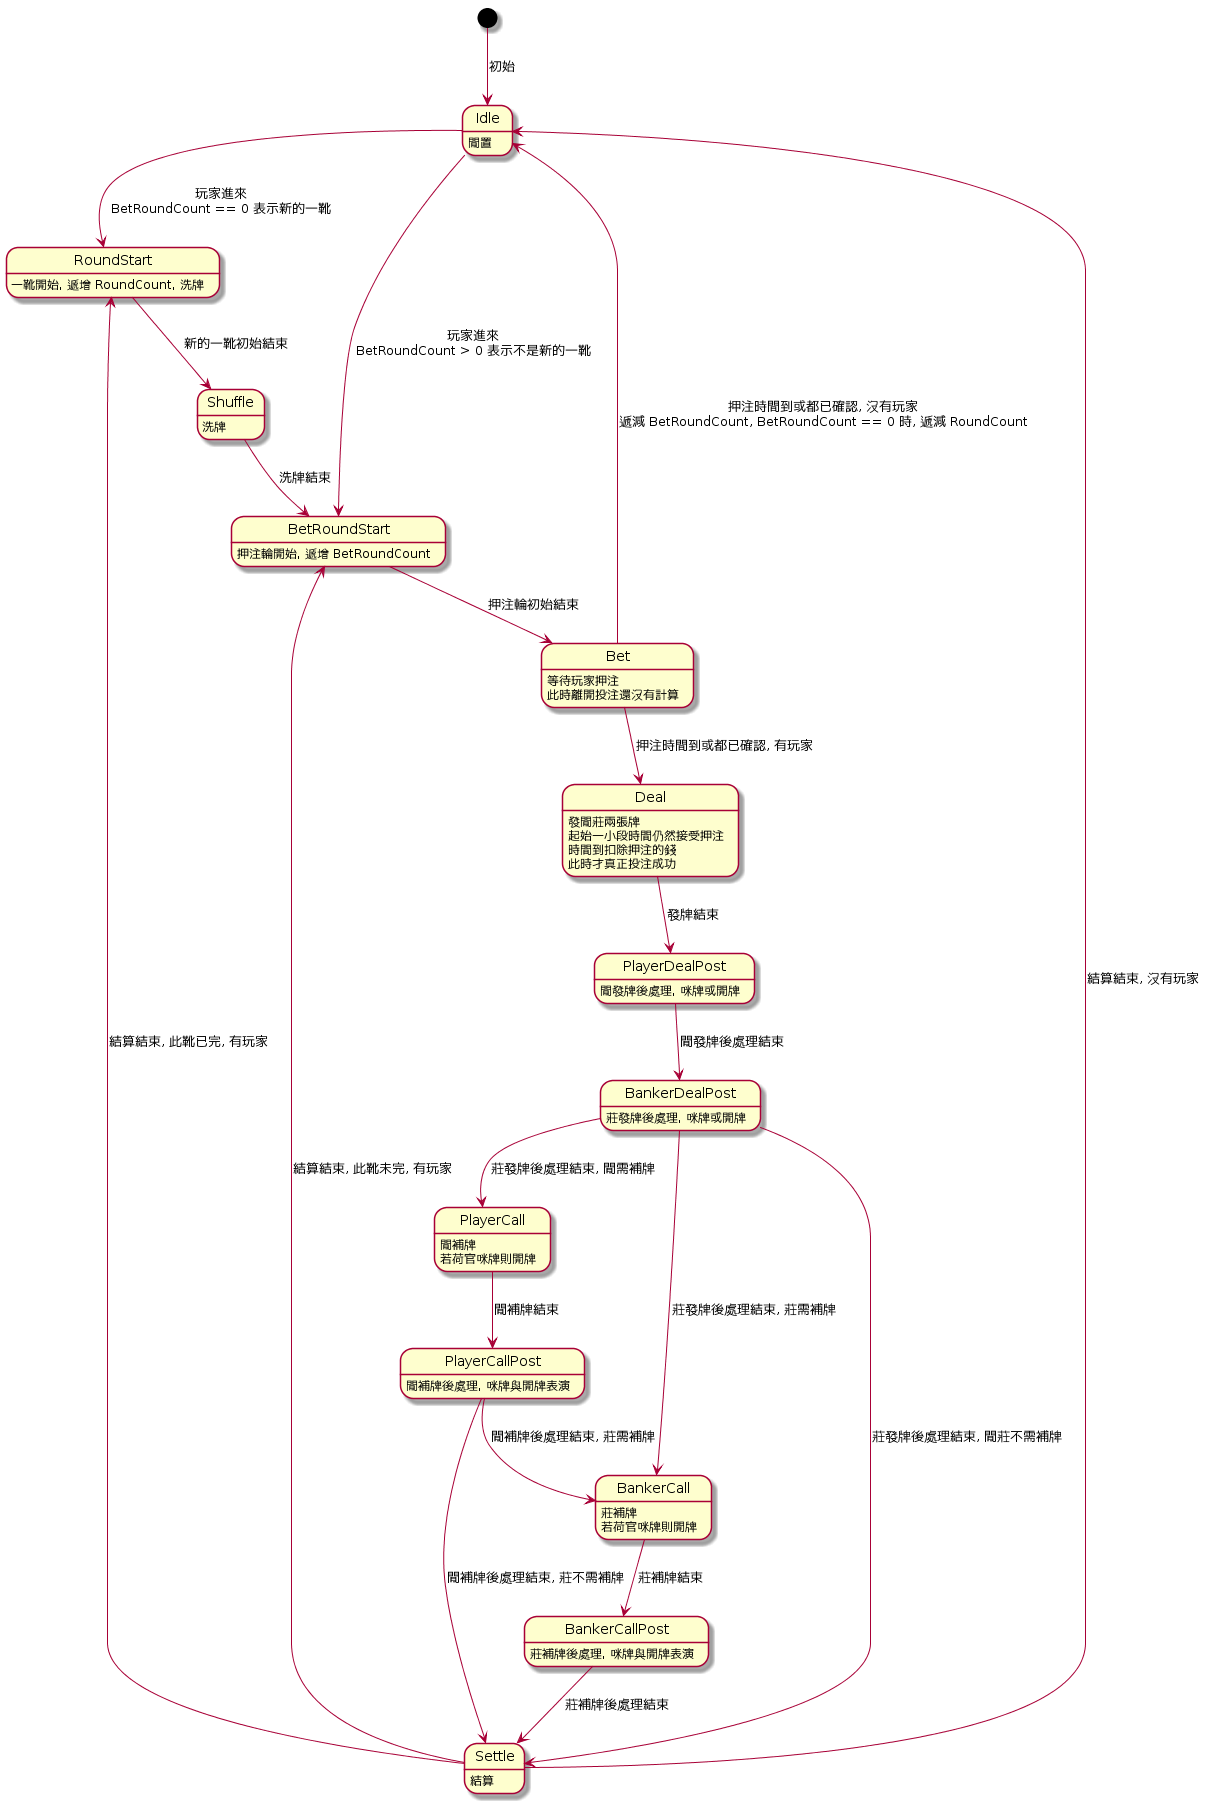
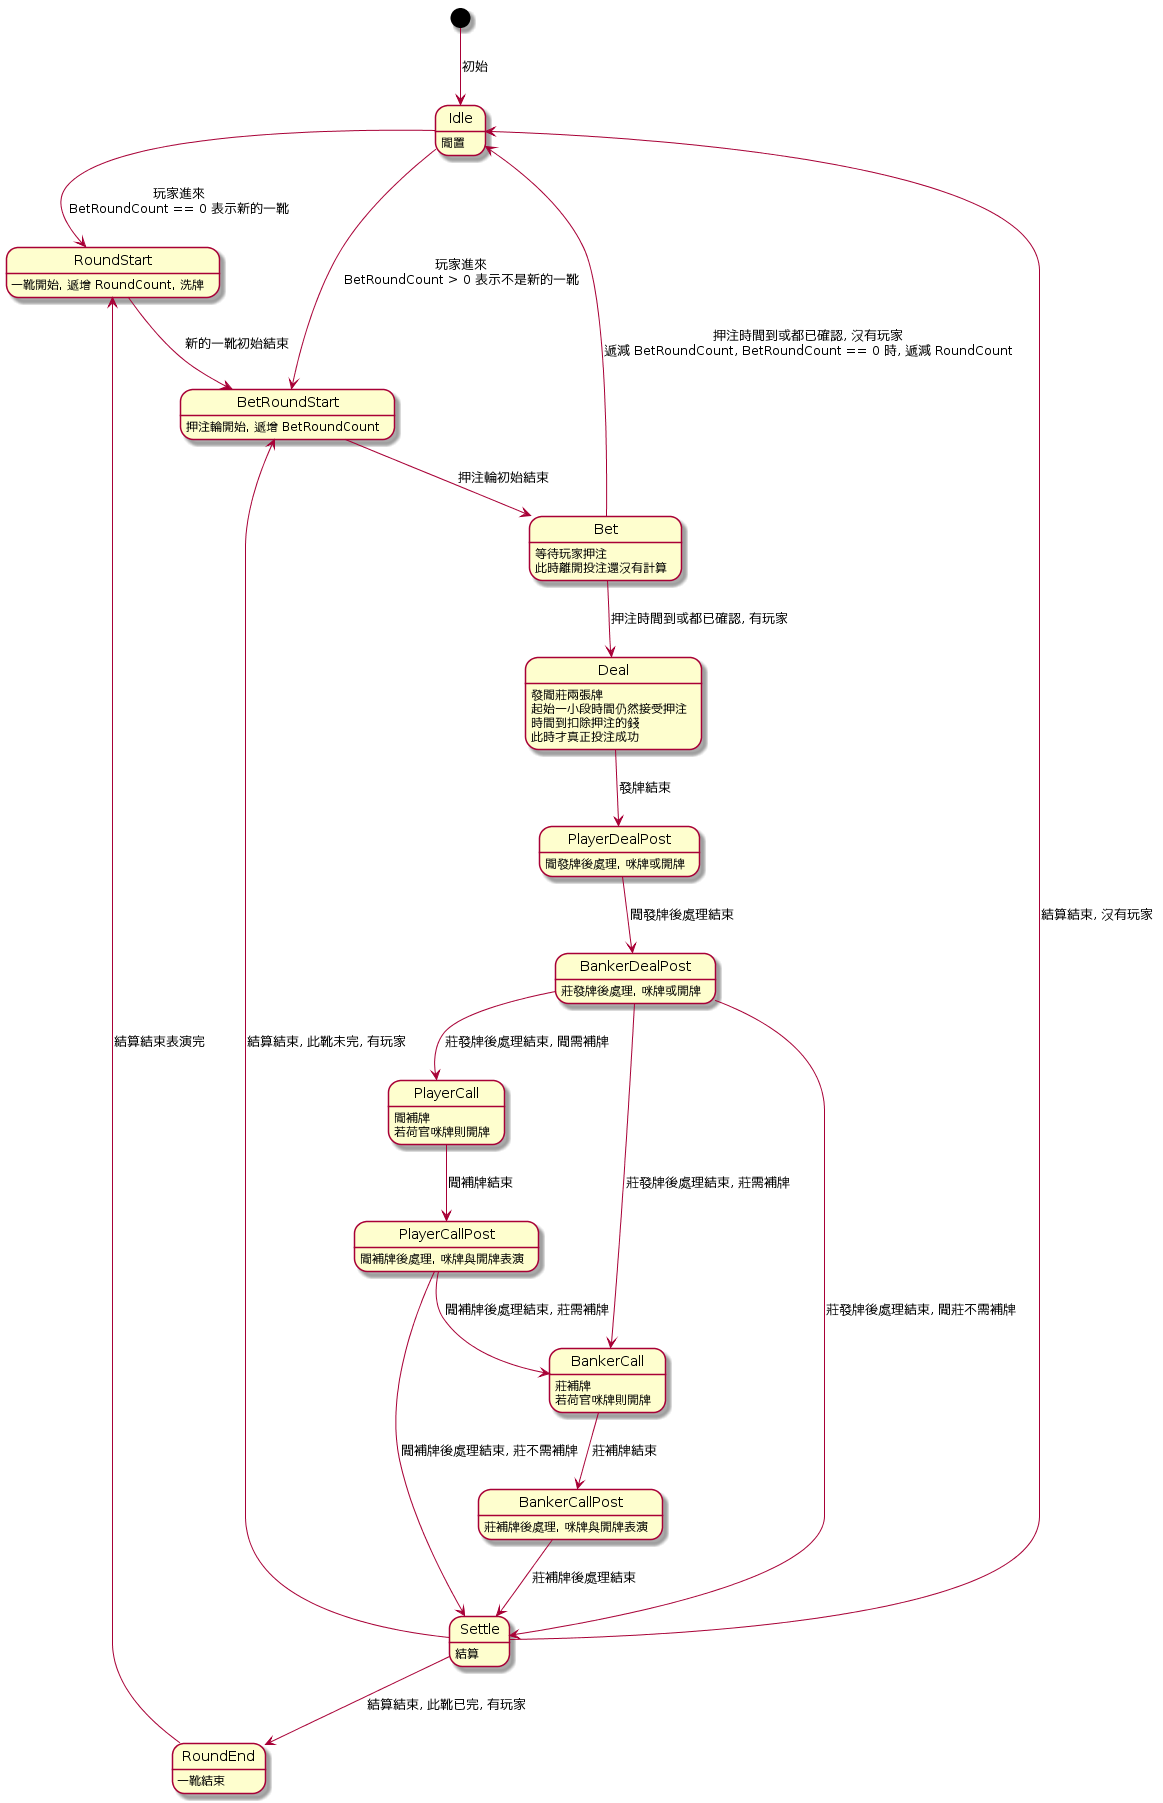
no message

diff --git a/Baccarat3D/Baccarat3D封包.md b/Baccarat3D/Baccarat3D封包.md
@@ -11,6 +11,7 @@ Baccarat3D 封包
 	- GtoCBaccarat3DInit
 		- BetRoundCount int // 押注輪次 (1-based)
 		- RoundCode string // 局號
+		- ShoeLen int // 靴剩餘張數
 		- ShoeTailNum int // 靴尾張數 (剩餘張 <= 此張數表示該靴結束)
 		- PlayerCardIDs [3]int // 閒家的牌 ID, 1~52, 順序為黑桃 A, 黑桃 2, ..., 黑桃 K, 紅心 A, 紅心 2, ..., 紅心 K, 梅花 A, 梅花 2, ..., 梅花 K, 方塊 A, 方塊 2, ..., 方塊 K
 		- BankerCardIDs [3]int // 莊家的牌 ID, 1~52, 順序為黑桃 A, 黑桃 2, ..., 黑桃 K, 紅心 A, 紅心 2, ..., 紅心 K, 梅花 A, 梅花 2, ..., 梅花 K, 方塊 A, 方塊 2, ..., 方塊 K
@@ -27,6 +28,7 @@ Baccarat3D 封包
 0. **一局開始**
 	- GtoCBaccarat3DRoundStart // 廣播
 		- RoundCode string // 局號
+		- ShoeTailNum int // 靴尾張數 (剩餘張 <= 此張數表示該靴結束)
 0. **洗牌**
 	- GtoCBaccarat3DShuffle // 廣播
 		- ShoeTailNum int // 靴尾張數 (剩餘張 <= 此張數表示該靴結束)
@@ -36,6 +38,7 @@ Baccarat3D 封包
 		- BetRoundCount int // 押注輪次 (1-based)
 		- RoundCode string // 局號
 		- ServerTime int64 // server 時間 (由 1970/1/1 開始算的毫秒數)
+		- ShoeLen int // 靴剩餘張數
 0. **發送押注**
 	- CtoGBaccarat3DBet
 		- Bets [5]int64 // 押注, 索引分別為 0: 閒, 1: 莊, 2: 和, 3: 閒對, 4: 莊對
@@ -100,3 +103,6 @@ Baccarat3D 封包
 0. **此靴的賽果列表**
 	- GtoCBaccarat3DGameResults
 		- Results []uint32 // 順序依照押注輪次; 各區開獎結果; 各區以 1 bit 表示, 1 代表有開, 0代表沒開; bit 索引分別為 0: 閒, 1: 莊, 2: 和, 3: 閒對, 4: 莊對
+0. **一局結束**
+	- GtoCBaccarat3DRoundEnd // 廣播
+		- ServerTime int64 // server 時間 (由 1970/1/1 開始算的毫秒數)

diff --git a/Server/ServerGameCommonFlow封包.md b/Server/ServerGameCommonFlow封包.md
@@ -39,9 +39,15 @@ Baccarat3D 封包
 		- Win          int64
 		- Detail       string
 	- GtoDSettle
-		- GameID    int
-		- RoundCode string
-		- Settles   []SServerSettleRequest
+		- GameID                    int
+		- RoundCode                 string
+		- Settles                   []SServerSettleRequest
+		- ServerTotalWin                  int64
+		- ServerTotalMonthlyWin           int64
+		- ServerTotalMonthlyWinCreateTime time.Time
+		- TotalWin                  int64
+		- TotalMonthlyWin           int64
+		- TotalMonthlyWinCreateTime time.Time
 	- SServerSettleResult
 		- ClientPeerID uint32
 		- AccountID    uint32
